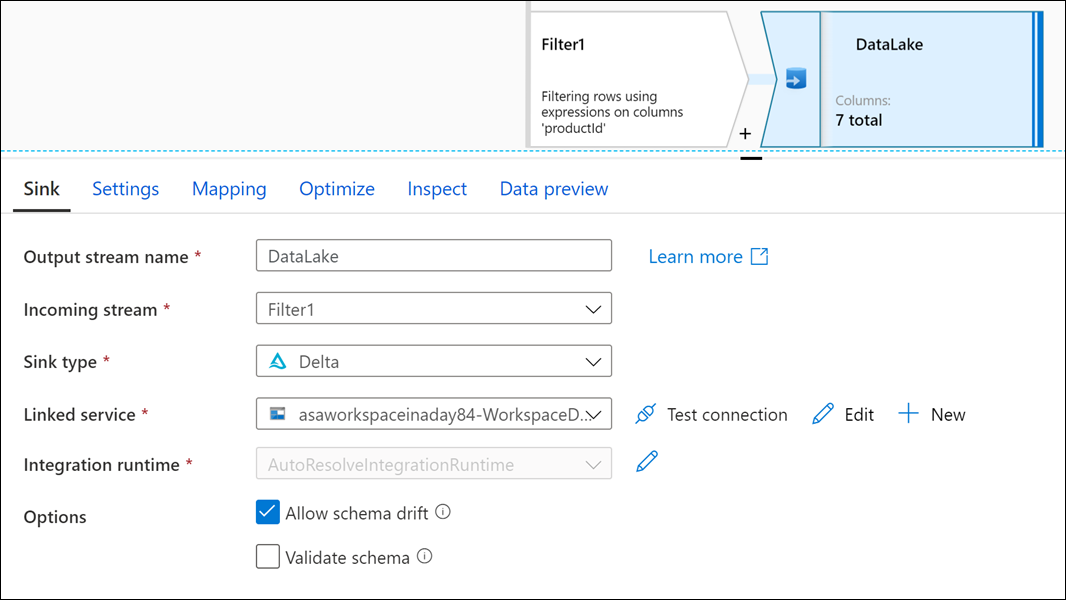
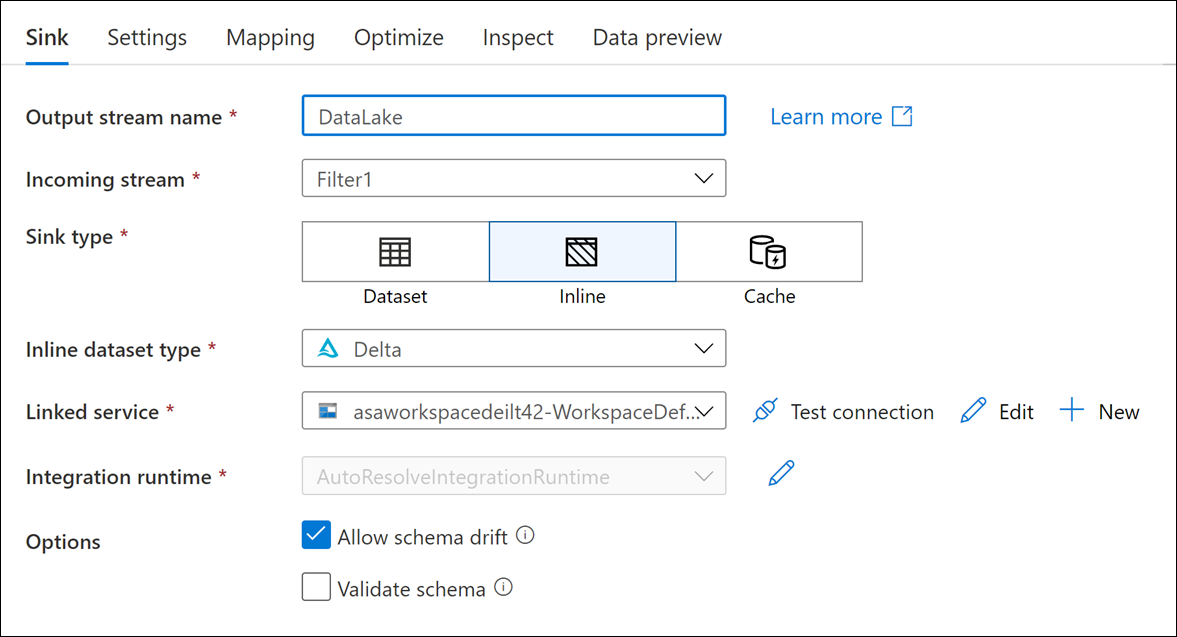
Modified for change to sink UI; Closes #28

diff --git a/demos/module4/README.md b/demos/module4/README.md
@@ -631,7 +631,8 @@ To do this, you will build a mapping data flow that performs the following tasks
 
     - **Output stream name**: Enter `DataLake`.
     - **Incoming stream**: Select `Filter1`.
-    - **Sink type**: select `Delta`.
+    - **Sink type**: select `Inline`.
+    - **Inline dataset type**: select `Delta`.
     - **Linked service**: Select the default workspace data lake storage account (example: `asaworkspaceinaday84-WorspaceDefaultStorage`).
     - **Options**: Check `Allow schema drift` and uncheck `Validate schema`.
 
